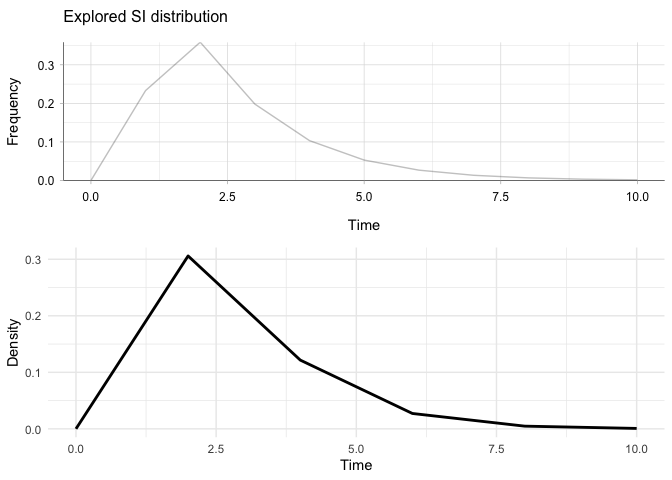
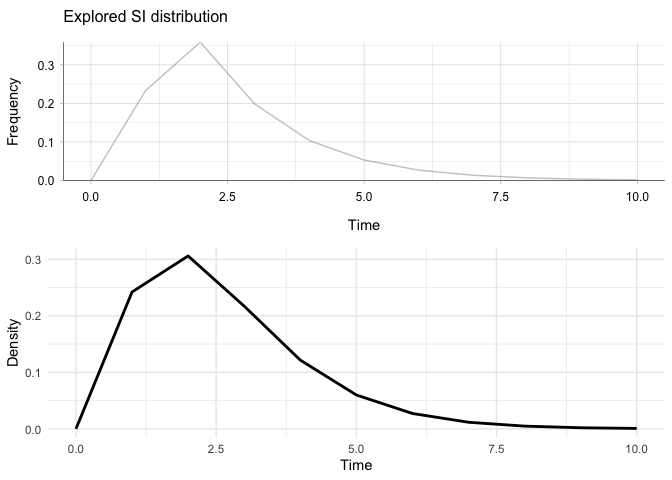
commit

diff --git a/EpiEstim_epitrix_testing.md b/EpiEstim_epitrix_testing.md
@@ -96,7 +96,7 @@ scale <- 0.865384615384615
 
 # Define a range of values
 
-x <- seq(0, 10, by = 2) 
+x <- seq(0, 10)
 
 # Compute the density of the gamma distribution
 
@@ -174,7 +174,7 @@ R0_val <- lm2R0_sample(f$model, si$d(1:129), n = 120)
 head(R0_val)
 ```
 
-    ## [1] 1.0669401 1.0088792 0.9998399 1.0097374 0.9670423 1.0580669
+    ## [1] 0.9839312 1.0469044 1.0140875 1.0059589 1.0425128 1.0053766
 
 ``` r
 #> [1] 1.360925 1.357800 1.360150 1.367461 1.352716 1.352790
